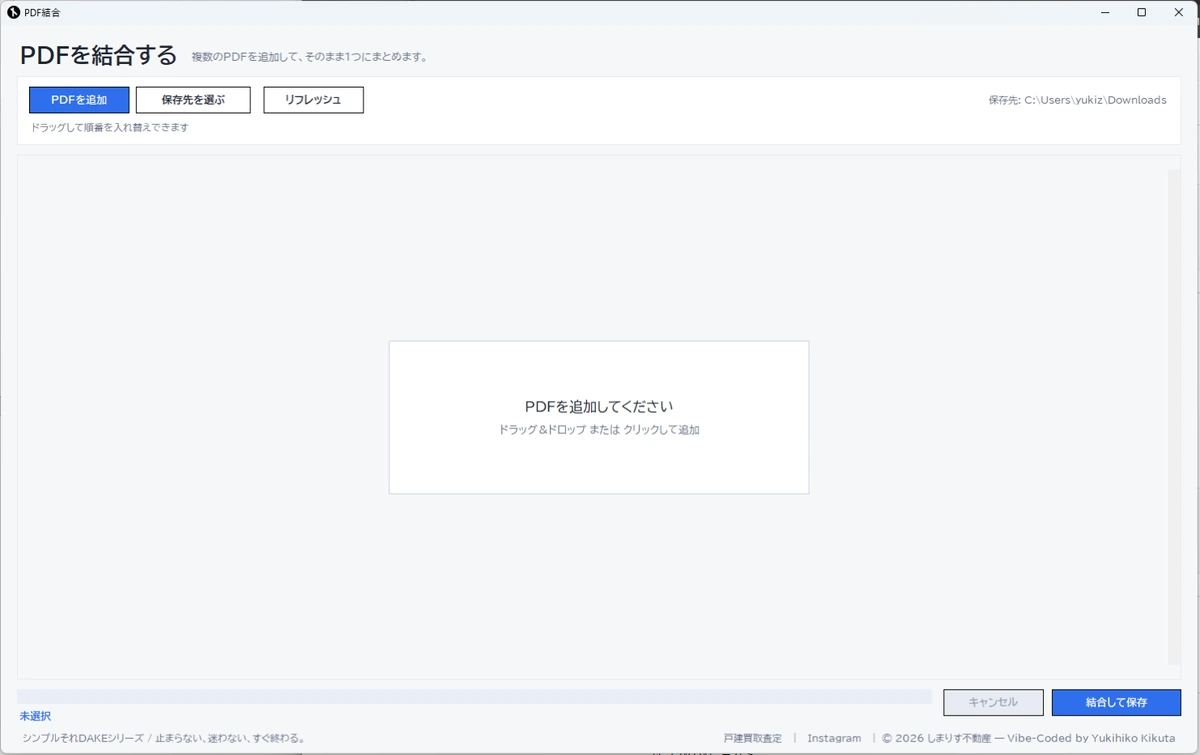
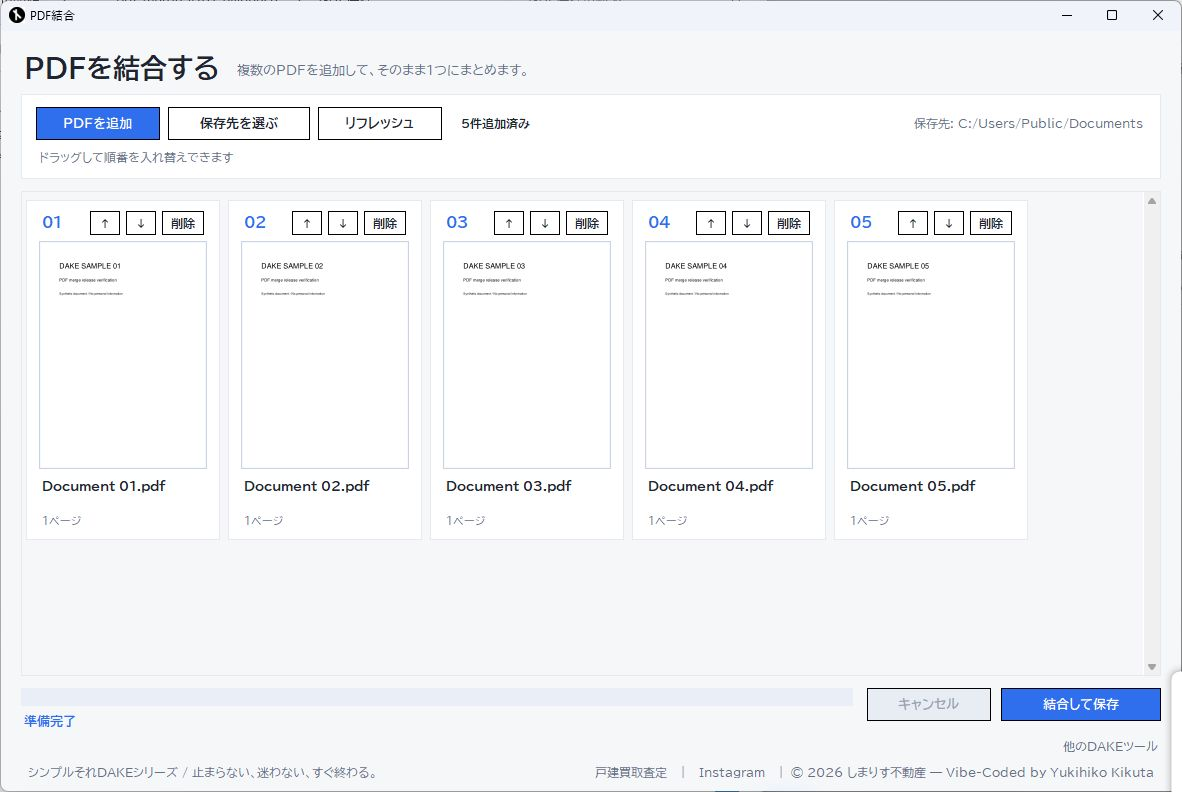
Prepare DAKE PDF Merge v1.0.1 release

diff --git a/01_apps/DAKE_PDF_Merge/release_body.md b/01_apps/DAKE_PDF_Merge/release_body.md
@@ -1,4 +1,7 @@
+# DakePDF結合 v1.0.1
+
 - PDF結合アプリ
 - 複数PDFの追加に対応
 - ドラッグ並べ替え対応
+- 小型画面への表示最適化・保存安全性を改善
 - Windows向けexe
